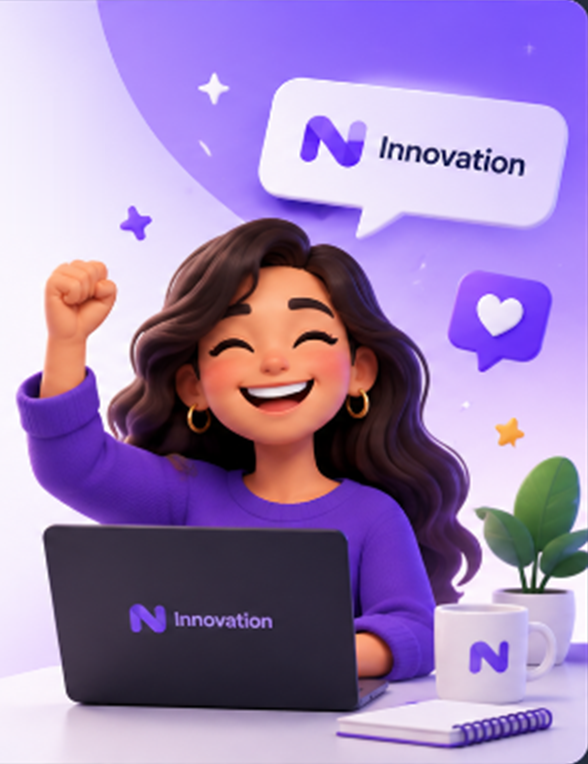
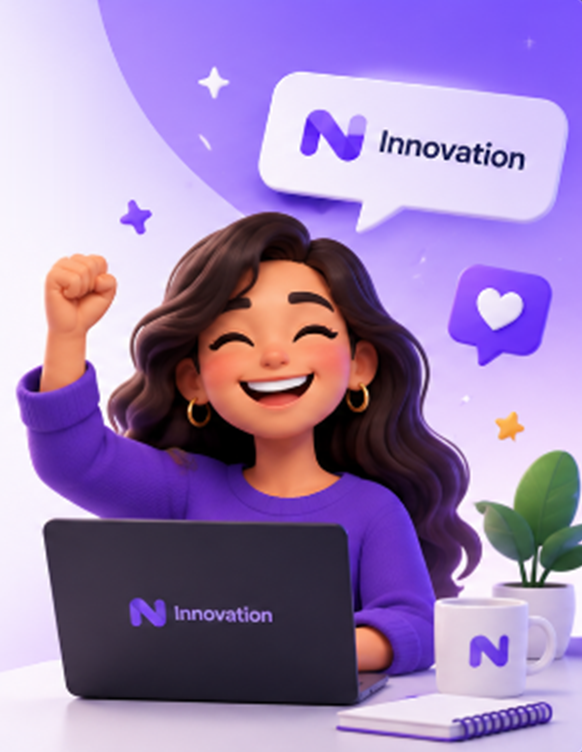
fix(boas-vindas): imagem inteira sem corte em qualquer tela (proporcao propria, desce abaixo do texto no celular, bordas suavizadas)

diff --git a/apps/web/app/[tenant]/dashboard/_components/welcome-gate.tsx b/apps/web/app/[tenant]/dashboard/_components/welcome-gate.tsx
@@ -7,7 +7,7 @@ import { request } from '@/app/lib/api';
 /** Estilos escopados (prefixo iw-) do modal de boas-vindas. */
 const CSS = `
 .iw-overlay{position:fixed;inset:0;z-index:100000;display:flex;align-items:center;justify-content:center;padding:24px;background:rgba(15,20,38,.63);backdrop-filter:blur(10px);-webkit-backdrop-filter:blur(10px);font-family:Inter,-apple-system,BlinkMacSystemFont,"Segoe UI",sans-serif}
-.iw-modal{position:relative;width:min(100%,1050px);min-height:min(610px,calc(100vh - 48px));max-height:calc(100vh - 48px);overflow-y:auto;display:grid;grid-template-columns:53% 47%;border-radius:28px;background:linear-gradient(145deg,#fff 0%,#fefeff 60%,#f5efff 100%);box-shadow:0 40px 100px rgba(5,5,25,.42);animation:iw-enter .55s cubic-bezier(.16,1,.3,1)}
+.iw-modal{position:relative;width:min(100%,1050px);align-items:end;max-height:calc(100vh - 48px);overflow-y:auto;display:grid;grid-template-columns:53% 47%;border-radius:28px;background:linear-gradient(145deg,#fff 0%,#fefeff 60%,#f5efff 100%);box-shadow:0 40px 100px rgba(5,5,25,.42);animation:iw-enter .55s cubic-bezier(.16,1,.3,1)}
 @keyframes iw-enter{from{opacity:0;transform:translateY(35px) scale(.95)}to{opacity:1;transform:translateY(0) scale(1)}}
 .iw-content{position:relative;z-index:5;padding:44px 30px 36px 54px}
 .iw-first{display:inline-flex;align-items:center;gap:8px;padding:8px 13px;border-radius:999px;background:linear-gradient(90deg,#eee5ff,#e4d8ff);color:#6521ef;font-size:11px;font-weight:800;text-transform:uppercase;letter-spacing:.03em}
@@ -26,10 +26,10 @@ const CSS = `
 .iw-start:disabled{opacity:.7;cursor:wait}
 .iw-start .iw-arrow{font-size:22px;transition:transform .2s ease}
 .iw-start:hover:not(:disabled) .iw-arrow{transform:translateX(5px)}
-.iw-visual{position:relative;overflow:hidden;min-height:610px;background:#f4eeff}
-.iw-visual img{position:absolute;inset:0;width:100%;height:100%;object-fit:cover;object-position:left center;user-select:none;-webkit-user-drag:none}
-@media (max-width:900px){.iw-modal{grid-template-columns:1fr;max-height:calc(100vh - 30px);overflow-y:auto}.iw-content{padding:40px 35px}.iw-visual{min-height:430px}}
-@media (max-width:560px){.iw-overlay{padding:10px}.iw-modal{border-radius:20px}.iw-content{padding:28px 20px}.iw-title{font-size:34px}.iw-desc{font-size:14px}.iw-feature{min-height:70px}.iw-start{width:100%}.iw-visual{min-height:350px}}
+.iw-visual{align-self:end;line-height:0}
+.iw-visual img{display:block;width:100%;height:auto;user-select:none;-webkit-user-drag:none;-webkit-mask-image:linear-gradient(90deg,transparent 0,#000 16%),linear-gradient(180deg,transparent 0,#000 8%);-webkit-mask-composite:source-in;mask-image:linear-gradient(90deg,transparent 0,#000 16%),linear-gradient(180deg,transparent 0,#000 8%);mask-composite:intersect}
+@media (max-width:900px){.iw-modal{grid-template-columns:1fr;max-height:calc(100vh - 30px);overflow-y:auto}.iw-content{padding:40px 35px}.iw-visual{width:min(100%,440px);margin:0 auto;align-self:center}}
+@media (max-width:560px){.iw-overlay{padding:10px}.iw-modal{border-radius:20px}.iw-content{padding:28px 20px}.iw-title{font-size:34px}.iw-desc{font-size:14px}.iw-feature{min-height:70px}.iw-start{width:100%}}
 @media (prefers-reduced-motion:reduce){.iw-modal{animation:none}}
 `;
 
